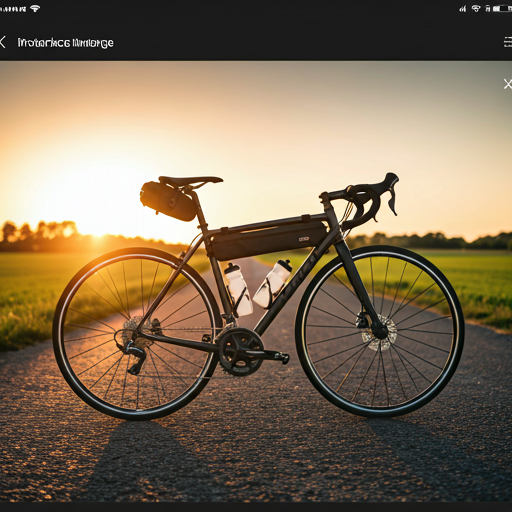
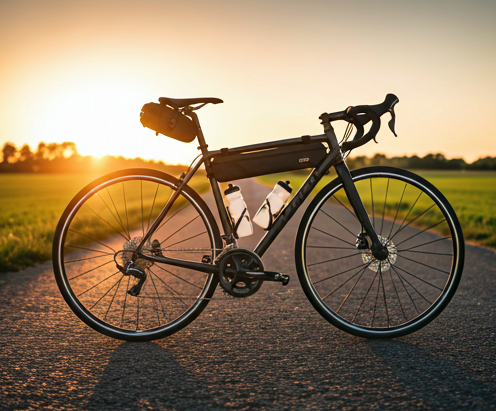
commit add new images and update product page

diff --git a/src/features/home/Product.tsx b/src/features/home/Product.tsx
@@ -18,11 +18,24 @@ const products: ProductType[] = [
 ];
 
 const Product = () => {
+  const [quantity, setQuantity] = useState(1);
   const [selectedProduct, setSelectedProduct] = useState<ProductType | null>(null);
+  const [activeImage, setActiveImage] = useState<string>("");
+  const [isWishlisted, setIsWishlisted] = useState(false);
+  const handleSelectProduct = (p: ProductType) => {
+    setSelectedProduct(p);
+    setActiveImage(p.image);
+  };
 
   if (selectedProduct) {
+    const thumbnails = [
+      selectedProduct.image,
+      "/Images/BottleImage2.png",
+      "/Images/BottleImage3.png"
+    ];
+
     return (
-      <div className="bg-[#050a0f] min-h-screen px-6 py-12 lg:px-20 text-white font-sans">
+      <div className="bg-[#050a0f] min-h-screen px-6 py-12 lg:px-20 text-white font-sans rounded-3xl">
         <button onClick={() => setSelectedProduct(null)} className="text-gray-400 hover:text-white mb-8 flex items-center gap-2">
           ← Back to Accessories
         </button>
@@ -30,103 +43,172 @@ const Product = () => {
         <div className="max-w-7xl mx-auto flex flex-col lg:flex-row gap-12 mb-20">
           <div className="flex-1">
             <div className="bg-[#0a1118] p-4 rounded-3xl border border-white/10 mb-4">
-              <img src={selectedProduct.image} alt={selectedProduct.name} className="w-full h-auto rounded-2xl" />
+              <img src={activeImage || selectedProduct.image} alt={selectedProduct.name} className="w-full h-auto rounded-2xl" />
             </div>
             <div className="flex gap-4">
-              {[1, 2, 3].map((i) => (
-                <div key={i} className="w-24 h-24 bg-[#0a1118] rounded-xl border border-white/10" />
+              {thumbnails.map((imgSrc, index) => (
+                <div 
+                  key={index} 
+                  onClick={() => setActiveImage(imgSrc)}
+                  className={`w-24 h-24 bg-[#0a1118] rounded-xl border border-white/10 overflow-hidden cursor-pointer hover:border-[#EB712B]/50 transition-colors ${activeImage === imgSrc ? 'border-[#EB712B]' : ''}`}
+                >
+                  <img src={imgSrc} alt={`Thumbnail ${index + 1}`} className="w-full h-full object-cover" />
+                </div>
               ))}
             </div>
           </div>
 
           <div className="flex-1 space-y-6">
-            <div className="flex justify-between items-start">
-              <h1 className="text-4xl font-bold">{selectedProduct.name}</h1>
-              <p className="text-2xl font-bold">$24.99</p>
-            </div>
-            <p className="text-gray-400">ProGear Elite Series • BPA Free • 750ml</p>
-            
-            <div>
-              <p className="text-sm text-gray-400 mb-2">FINISH:</p>
-              <div className="flex gap-3">
-                <div className="w-8 h-8 rounded-full border-2 border-[#EB712B] bg-black" />
-                <div className="w-8 h-8 rounded-full bg-white" />
-                <div className="w-8 h-8 rounded-full bg-gray-700" />
-              </div>
-            </div>
+          {/* RIGHT COLUMN: DETAILED INFO */}
+<div className="flex-1 space-y-6">
+  {/* Title & Price */}
+  <div className="flex justify-between items-start">
+    <div>
+      <h1 className="text-4xl font-bold text-white">{selectedProduct.name}</h1>
+      <p className="text-gray-400 mt-1">ProGear Elite Series • BPA Free • 750ml</p>
+      
+      {/* Star Rating */}
+      <div className="flex items-center gap-2 mt-2">
+        <div className="flex text-[#EB712B]">★★★★☆</div>
+        <span className="text-sm text-gray-500">(124 reviews)</span>
+      </div>
+    </div>
+    <p className="text-2xl font-bold text-[#EB712B]">$24.99</p>
+  </div>
 
-            <div className="flex gap-4">
-              <div className="flex items-center bg-[#0a1118] rounded-xl border border-white/10 px-4">
-                <button className="px-3">-</button>
-                <span className="px-4">1</span>
-                <button className="px-3">+</button>
-              </div>
-              <button className="flex-1 bg-[#EB712B] py-4 rounded-xl font-bold hover:bg-[#c95f1f]">Add to Cart</button>
-            </div>
+ 
 
-            <div className="border-t border-white/10 pt-6 space-y-4">
-              <h2 className="font-bold text-xl">Description</h2>
-              <p className="text-gray-400 text-sm leading-relaxed">Elevate your hydration game with the Gym Mode Shaker.</p>
-              <ul className="space-y-2 text-sm text-gray-300">
-                <li>✓ BPA and Phthalate-free medical grade plastic</li>
-                <li>✓ Dishwasher safe for effortless cleaning</li>
-              </ul>
-            </div>
-          </div>
+  <div className="flex flex-col gap-3">
+   <div className="flex gap-4">
+  <div className="flex items-center bg-[#0a1118] rounded-xl border border-white/10 px-4 h-14">
+    <button 
+      className="px-3 text-xl hover:text-[#EB712B] transition-colors"
+      onClick={() => setQuantity(prev => Math.max(1, prev - 1))}
+    >
+      -
+    </button>
+    <span className="px-6 font-bold w-12 text-center">{quantity}</span>
+    <button 
+      className="px-3 text-xl hover:text-[#EB712B] transition-colors"
+      onClick={() => setQuantity(prev => prev + 1)}
+    >
+      +
+    </button>
+  </div>
+  
+  <button className="flex-1 bg-[#EB712B] text-white rounded-xl font-bold hover:bg-[#c95f1f] transition-all">
+    Add to Cart ({quantity})
+  </button>
+</div>
+    <button 
+  onClick={() => setIsWishlisted(!isWishlisted)}
+  className="w-full py-4 rounded-xl border border-white/10 text-white font-bold hover:bg-white/5 transition-all flex items-center justify-center gap-2"
+>
+  <svg 
+    className={`w-5 h-5 transition-colors duration-300 ${isWishlisted ? 'text-[#EB712B] fill-[#EB712B]' : 'text-white'}`} 
+    fill="none" 
+    stroke="currentColor" 
+    viewBox="0 0 24 24"
+  >
+    <path 
+      strokeLinecap="round" 
+      strokeLinejoin="round" 
+      strokeWidth={2} 
+      d="M4.318 6.318a4.5 4.5 0 000 6.364L12 20.364l7.682-7.682a4.5 4.5 0 00-6.364-6.364L12 7.636l-1.318-1.318a4.5 4.5 0 00-6.364 0z"
+    />
+  </svg>
+  {isWishlisted ? 'Added to Wishlist' : 'Add to Wishlist'}
+</button>
+  </div>
+
+  {/* Description*/}
+  <div className="border-t border-white/10 pt-6 space-y-6">
+    <h2 className="font-bold text-xl">Description</h2>
+    <p className="text-gray-400 text-sm leading-relaxed">
+      Elevate your hydration game with the Gym Mode Shaker. Engineered for high-performance athletes, 
+      this 750ml bottle combines rugged durability with a sleek, aerodynamic aesthetic.
+    </p>
+
+    {/* Benefit Icons */}
+    <div className="grid grid-cols-3 gap-4">
+      {['Free Shipping', 'Lifetime Warranty', 'Easy Returns'].map((benefit) => (
+        <div key={benefit} className="bg-[#0a1118] p-3 rounded-xl border border-white/5 text-center text-[10px] font-bold text-gray-400">
+          <div className="mb-2">📦</div> 
+          {benefit}
         </div>
+      ))}
+    </div>
+  </div>
+</div>
+</div>
+</div>
 
-        <div className="max-w-7xl mx-auto border-t border-white/10 pt-12">
-          <div className="flex justify-between items-end mb-8">
-            <h2 className="text-3xl font-bold">Complete the Kit</h2>
-            <a href="#" className="text-[#EB712B] hover:underline">View All Accessories →</a>
+        {/* COMPLETE THE KIT SECTION */}
+<div className="max-w-7xl mx-auto border-t border-white/10 pt-16 mt-16">
+  <div className="flex justify-between items-end mb-10">
+    <div>
+      <h2 className="text-3xl font-bold tracking-tight text-white">Complete the Kit</h2>
+      <p className="text-gray-400 mt-2">Essential gear to pair with your new shaker.</p>
+    </div>
+    <a href="#" className="text-[#EB712B] hover:text-white font-semibold transition-colors flex items-center gap-1">
+      View All Accessories →
+    </a>
+  </div>
+  
+  <div className="grid grid-cols-2 lg:grid-cols-4 gap-6">
+    {products.filter((p) => p.name !== "Touring Elite").slice(0, 4).map((p, index) => {
+      const customData: Record<number, { name: string; image: string }> = {
+        0: { name: "Pro Yoga Mat", image: "/Images/mateImage.png" },
+        1: { name: "Powergrip Gloves", image: "/Images/cyclingGloveImage2.png" },
+        2: { name: "Elite Runner 3.0", image: "/Images/shoesImage.png" },
+        3: { name: "QuickDry Sports Towel", image: "/Images/sportsTowelImage.png" },
+      };
+      const displayData = customData[index] || { name: p.name, image: p.image };
+      
+      return (
+        <div 
+          key={p.id} 
+          className="group bg-[#0a1118] p-4 rounded-3xl border border-white/5 hover:border-[#EB712B]/50 transition-all duration-300 cursor-pointer overflow-hidden" 
+          onClick={() => handleSelectProduct(p)}
+        >
+          <div className="h-48 mb-6 overflow-hidden rounded-2xl bg-black/40">
+            <img 
+              src={displayData.image} 
+              alt={displayData.name} 
+              className="w-full h-full object-cover transform group-hover:scale-105 transition-transform duration-500" 
+            />
           </div>
-          
-          <div className="grid grid-cols-2 lg:grid-cols-4 gap-6">
-            {products.filter((p) => p.name !== "Touring Elite").slice(0, 4).map((p, index) => {
-              const customData: Record<number, { name: string; image: string }> = {
-                0: { name: "Pro Yoga Mat", image: "/Images/mateImage.png" },
-                1: { name: "Powergrip Gloves", image: "/Images/cyclingGloveImage2.png" },
-                2: { name: "Elite Runner 3.0", image: "/Images/shoesImage.png" },
-                3: { name: "QuickDry Sports Towel", image: "/Images/sportsTowelImage.png" },
-              };
-              const displayData = customData[index] || { name: p.name, image: p.image };
-              return (
-                <div key={p.id} className="bg-[#0a1118] p-4 rounded-2xl border border-white/5 hover:border-[#EB712B]/30 transition-all cursor-pointer" onClick={() => setSelectedProduct(p)}>
-                  <div className="h-40 mb-4 overflow-hidden rounded-xl bg-black">
-                    <img src={displayData.image} alt={displayData.name} className="w-full h-full object-cover" />
-                  </div>
-                  <h3 className="font-bold text-white">{displayData.name}</h3>
-                  <p className="text-[#EB712B] font-bold">${p.price}</p>
-                </div>
-              );
-            })}
-          </div>
+          <h3 className="font-bold text-white group-hover:text-[#EB712B] transition-colors">{displayData.name}</h3>
+          <p className="text-gray-400 font-bold mt-1">$ {p.price}</p>
         </div>
+      );
+    })}
+  </div>
+</div>
       </div>
     );
   }
 
   return (
-    <div className="bg-black min-h-screen px-6 py-16 lg:px-20 font-sans text-white">
-      <div className="max-w-6xl mx-auto mb-16 flex flex-col md:flex-row justify-between items-start md:items-end gap-6">
-        <h1 className="text-4xl lg:text-5xl font-extrabold tracking-tight">
-          High Performance <span className="text-[#EB712B]">Gear</span>
-        </h1>
-      </div>
-
+    <div className="bg-black min-h-screen px-6 py-16 lg:px-20 font-sans text-white rounded-3xl">
+      <div className="max-w-6xl mx-auto mb-16">
+        <h1 className="text-4xl lg:text-5xl font-extrabold tracking-tight">High Performance <span className="text-[#EB712B]">Gear</span></h1>
+<p className="text-gray-400 mt-2 text-sm md:text-base leading-relaxed max-w-2xl uppercase ">
+  Elevate your performance with our curated selection of 
+  <span className="text-[#EB712B] font-semibold"> professional cycling </span> 
+  and athletic equipment.
+</p>      </div>
       <div className="max-w-6xl mx-auto grid grid-cols-1 md:grid-cols-2 lg:grid-cols-3 gap-8">
         {products.map((p) => (
           <div key={p.id} className="group relative bg-[#0a0a0a] p-5 rounded-3xl border border-white/5 hover:border-[#EB712B]/50 transition-all duration-500 hover:-translate-y-2">
             <div className="relative rounded-2xl mb-6 overflow-hidden h-72">
-              <div className="absolute inset-0  from-black/60 to-transparent z-10" />
               <img src={p.image} alt={p.name} className="w-full h-full object-cover transform group-hover:scale-110 transition-transform duration-700 ease-out" />
             </div>
             <div className="px-1">
-              <p className="text-[10px] font-bold text-[#EB712B] uppercase tracking-[0.2em] mb-2">{p.category}</p>
               <h3 className="text-xl font-bold mb-3">{p.name}</h3>
               <div className="flex items-center justify-between">
                 <p className="font-bold text-2xl">$ {p.price}</p>
-                <button onClick={() => setSelectedProduct(p)} className="bg-white/5 p-2 rounded-full hover:bg-[#EB712B] transition-colors">
+                <button onClick={() => handleSelectProduct(p)} className="bg-white/5 p-2 rounded-full hover:bg-[#EB712B] transition-colors">
                   <svg className="w-5 h-5" fill="none" viewBox="0 0 24 24" stroke="currentColor">
                     <path strokeLinecap="round" strokeLinejoin="round" strokeWidth={2} d="M12 4v16m8-8H4" />
                   </svg>